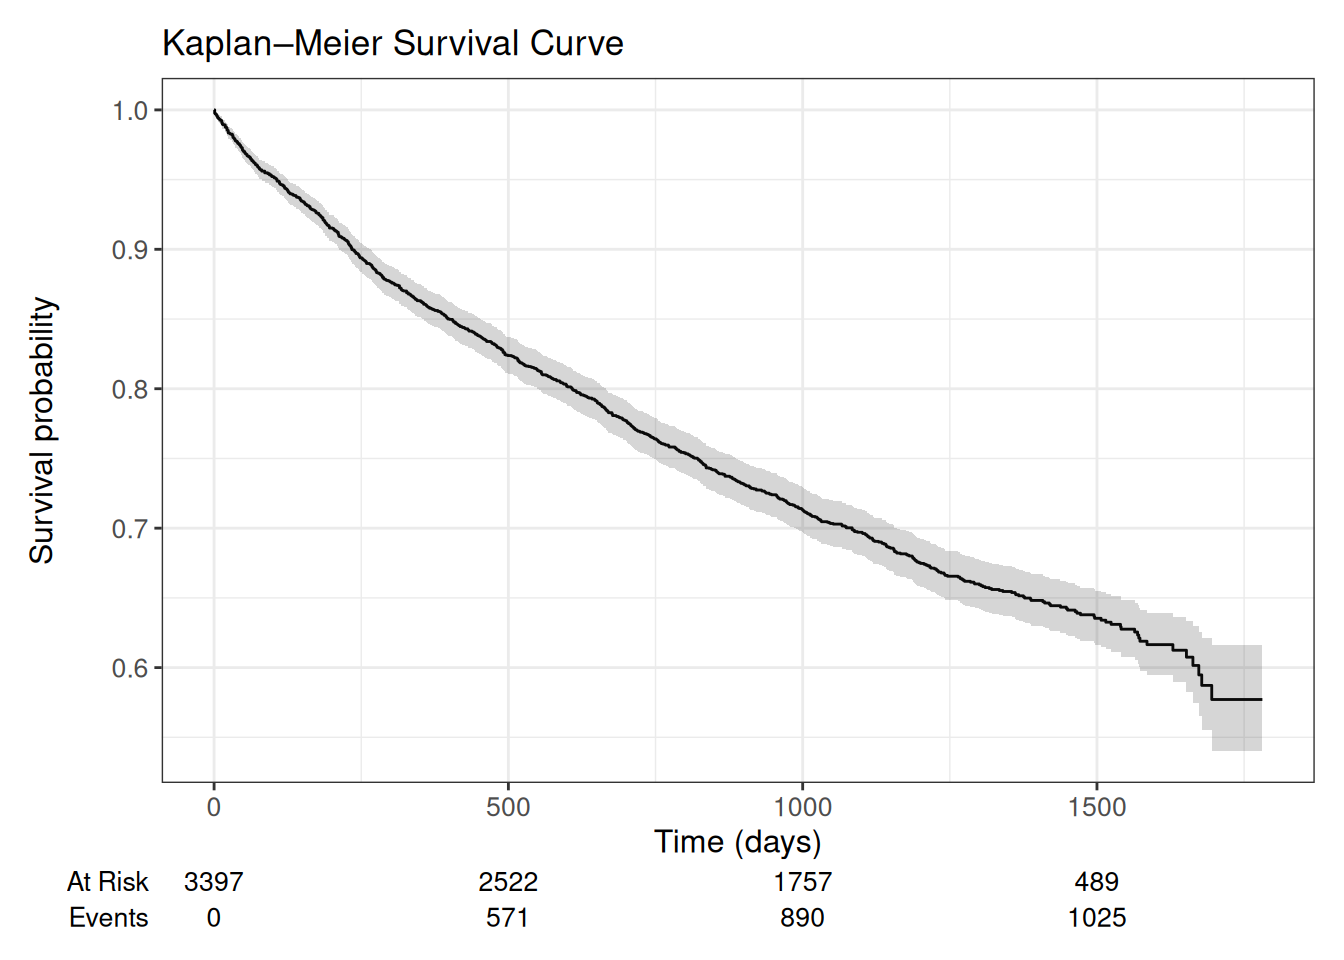
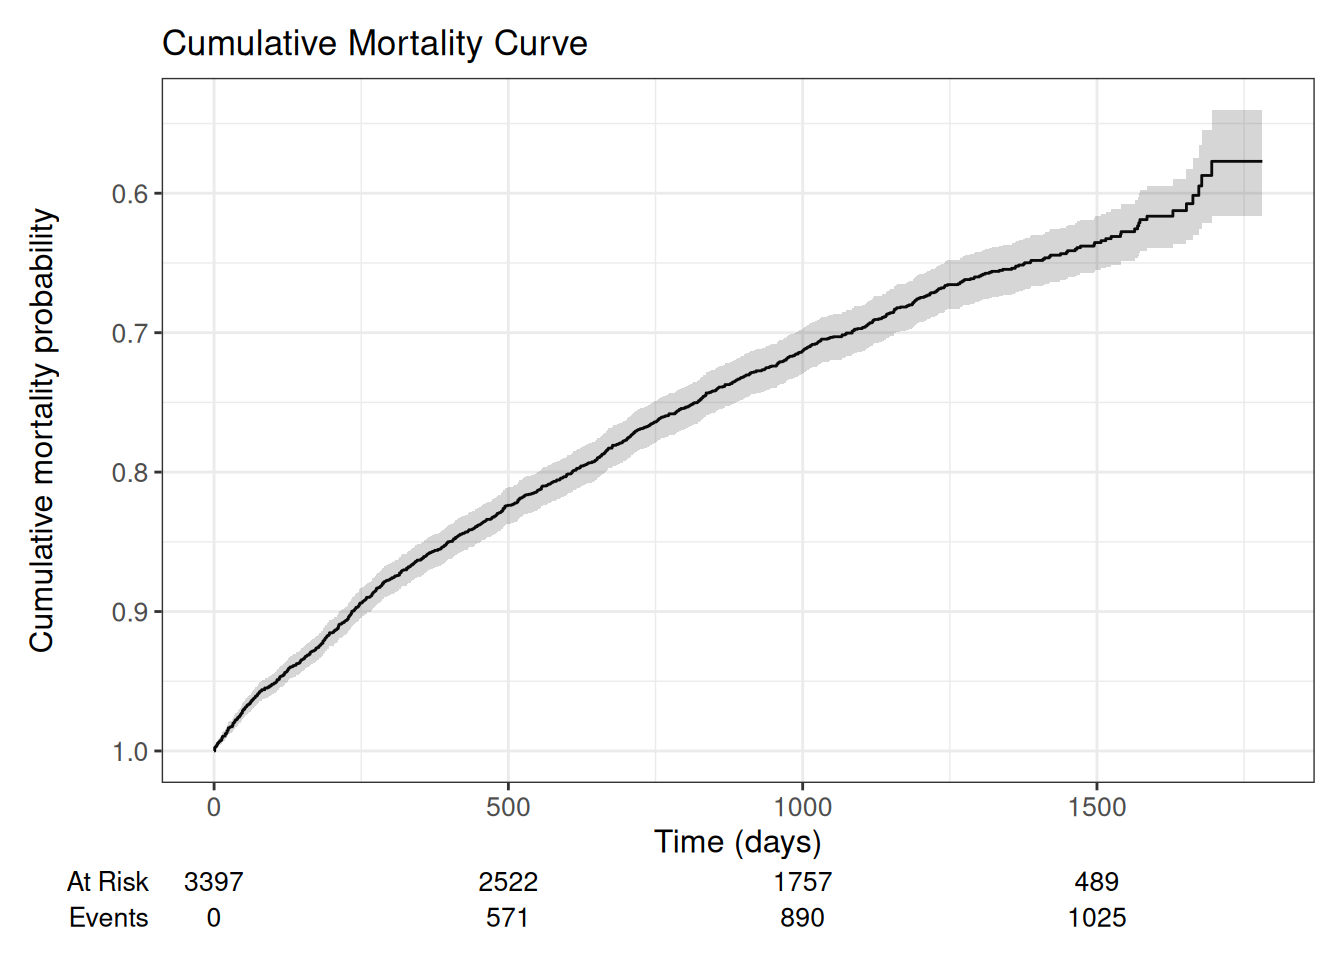
Built site for gh-pages

diff --git a/outcome.html b/outcome.html
@@ -166,7 +166,7 @@ pre > code.sourceCode > span > a:first-child::before { text-decoration: underlin
   <li><a href="#dni" id="toc-dni" class="nav-link" data-scroll-target="#dni">Dni</a></li>
   <li><a href="#lata" id="toc-lata" class="nav-link" data-scroll-target="#lata">Lata</a></li>
   </ul></li>
-  <li><a href="#krzywa-przeżycia" id="toc-krzywa-przeżycia" class="nav-link" data-scroll-target="#krzywa-przeżycia">Krzywa przeżycia</a></li>
+  <li><a href="#krzywa-umieralnościhospitalizacji" id="toc-krzywa-umieralnościhospitalizacji" class="nav-link" data-scroll-target="#krzywa-umieralnościhospitalizacji">Krzywa umieralności/hospitalizacji</a></li>
   <li><a href="#mediana-przeżycia" id="toc-mediana-przeżycia" class="nav-link" data-scroll-target="#mediana-przeżycia">Mediana przeżycia</a></li>
   <li><a href="#letnie-przeżycia" id="toc-letnie-przeżycia" class="nav-link" data-scroll-target="#letnie-przeżycia">2-letnie przeżycia</a></li>
   </ul></li>
@@ -329,8 +329,8 @@ pre > code.sourceCode > span > a:first-child::before { text-decoration: underlin
 </div>
 </section>
 </section>
-<section id="krzywa-przeżycia" class="level2">
-<h2 class="anchored" data-anchor-id="krzywa-przeżycia">Krzywa przeżycia</h2>
+<section id="krzywa-umieralnościhospitalizacji" class="level2">
+<h2 class="anchored" data-anchor-id="krzywa-umieralnościhospitalizacji">Krzywa umieralności/hospitalizacji</h2>
 <div class="cell">
 <details class="code-fold">
 <summary>Code</summary>
@@ -339,10 +339,11 @@ pre > code.sourceCode > span > a:first-child::before { text-decoration: underlin
 <span id="cb14-3"><a href="#cb14-3" aria-hidden="true" tabindex="-1"></a>  <span class="fu">add_confidence_interval</span>() <span class="sc">+</span></span>
 <span id="cb14-4"><a href="#cb14-4" aria-hidden="true" tabindex="-1"></a>  <span class="fu">add_risktable</span>() <span class="sc">+</span></span>
 <span id="cb14-5"><a href="#cb14-5" aria-hidden="true" tabindex="-1"></a>  <span class="fu">labs</span>(</span>
-<span id="cb14-6"><a href="#cb14-6" aria-hidden="true" tabindex="-1"></a>    <span class="at">title =</span> <span class="st">"Kaplan–Meier Survival Curve"</span>,</span>
+<span id="cb14-6"><a href="#cb14-6" aria-hidden="true" tabindex="-1"></a>    <span class="at">title =</span> <span class="st">"Cumulative Mortality Curve"</span>,</span>
 <span id="cb14-7"><a href="#cb14-7" aria-hidden="true" tabindex="-1"></a>    <span class="at">x =</span> <span class="st">"Time (days)"</span>,  <span class="co"># adjust if needed</span></span>
-<span id="cb14-8"><a href="#cb14-8" aria-hidden="true" tabindex="-1"></a>    <span class="at">y =</span> <span class="st">"Survival probability"</span></span>
-<span id="cb14-9"><a href="#cb14-9" aria-hidden="true" tabindex="-1"></a>  )</span></code><button title="Copy to Clipboard" class="code-copy-button"><i class="bi"></i></button></pre></div>
+<span id="cb14-8"><a href="#cb14-8" aria-hidden="true" tabindex="-1"></a>    <span class="at">y =</span> <span class="st">"Cumulative mortality probability"</span></span>
+<span id="cb14-9"><a href="#cb14-9" aria-hidden="true" tabindex="-1"></a>  ) <span class="sc">+</span></span>
+<span id="cb14-10"><a href="#cb14-10" aria-hidden="true" tabindex="-1"></a>  <span class="fu">scale_y_reverse</span>(<span class="at">trans =</span> <span class="st">"reverse"</span>)  <span class="co"># flip survival to mortality</span></span></code><button title="Copy to Clipboard" class="code-copy-button"><i class="bi"></i></button></pre></div>
 </details>
 <div class="cell-output-display">
 <div>
